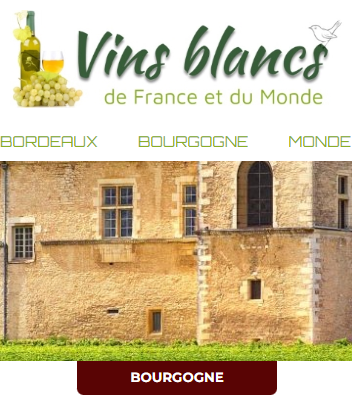
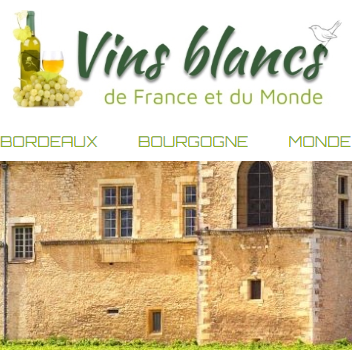
correction nav bar

diff --git a/styles/styles.css b/styles/styles.css
@@ -799,13 +799,11 @@ aside {
 
 /* Section NAVBAR */
 nav {
-  background: #CDDC29;
-  height: 270px;
-  /* top: 0; */
-  /* position: sticky; */
+  background: #ffffff;
+  height: 230px;
 }
 .navbar ul {
-  width: 100%;
+  width: 300px;
   list-style: none;
   flex-direction: column;
   margin: 0 auto;
@@ -815,8 +813,8 @@ nav {
   text-align: center;
   font-weight: 300;
   font-size: 40px;
-  line-height: 40px;
-  color: #ffffff;
+  line-height: 30px;
+  color: #000000;
   text-decoration: none;
   display: block;
   padding: 10px;
@@ -824,9 +822,9 @@ nav {
 .navbar ul li a:hover {
   font-weight: 300;
   font-size: 40px;
-  line-height: 40px;
+  line-height: 30px;
   color: #ffffff;
-  background-color:#000000;
+  background-color:#CDDC29;
   border-radius: 5px;
   cursor: pointer;
   padding: 10px;
@@ -928,7 +926,7 @@ nav {
 } 
 .imagegraphiste {
   width: 400px;
-  height: 350px;
+  height: 370px;
   display: flex;
   align-items: center;
   justify-content: center;
